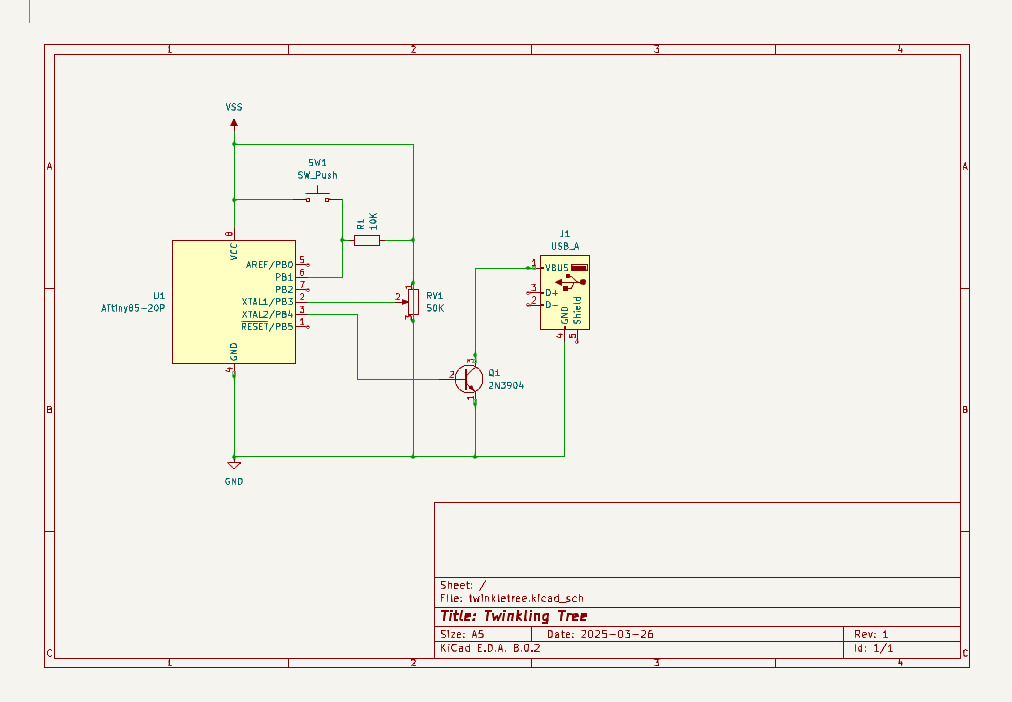
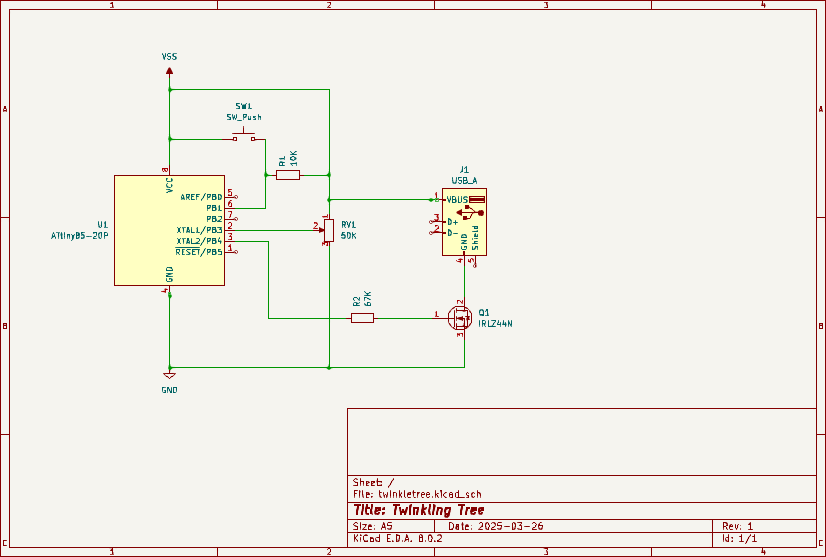
Modify schematic / Rename REAMDE / Add pinout to code in comments

Changed region(s): [[0.0, 0.0, 1.0, 1.0], [0.1816, 0.3052, 0.6053, 0.702]]

diff --git a/include/ledtreebasic.h b/include/ledtreebasic.h
@@ -5,8 +5,13 @@
 #include <ATtinySerialOut.hpp>
 #endif
 #define OUT_PIN 4
-#define IN_PIN 3
+#define IN_PIN  3
 #define BTN_PIN 1
+
+//   (PCINT5/RESET/ADC0/dW)          PB5 |1     8| VCC
+//   (PCINT3/XTAL1/CLKI/OC1B/ADC3)   PB3 |2     7| PB2 (SCK/USCK/SCL/ADC1/T0/INT0/PCINT2)
+//   (PCINT4/XTAL2/CLKO/OC1B/ADC2)   PB4 |3     6| PB1 (MISO/DO/AIN1/OC0B/OC1A/PCINT1)
+//                                   GND |4     5| PB0 (MOSI/DI/SDA/AIN0/OC0A/OC1A/AREF/PCINT0)
 
 unsigned long lastCheckTime = 0;
 unsigned long const checkInterval = 10;  //  Check every 10 milliseconds.
